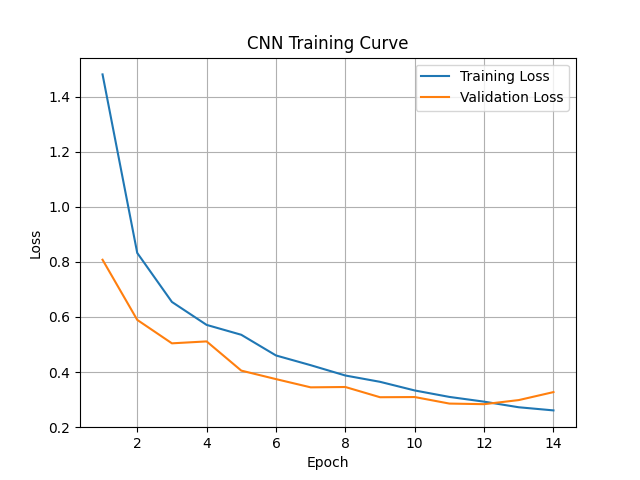
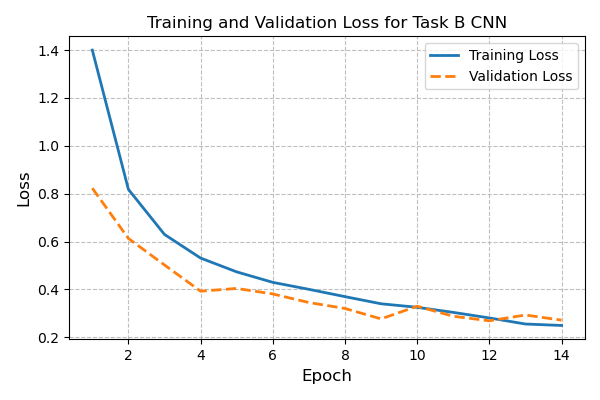
feat: update plot style

diff --git a/B/taskBmodels.py b/B/taskBmodels.py
@@ -236,12 +236,13 @@ class CNNModelTrainer:
 
     def plot_training_curve(self, filepath: str):
         # Plot the training curve
-        plt.figure()
-        plt.plot(range(1, len(self.train_losses)+1, 1), self.train_losses, label="Training Loss")
-        plt.plot(range(1, len(self.val_losses)+1, 1), self.val_losses, label="Validation Loss")
-        plt.xlabel("Epoch")
-        plt.ylabel("Loss")
-        plt.legend()
-        plt.grid()
-        plt.title("CNN Training Curve")
-        # plt.savefig(filepath)
+        plt.figure(figsize=(6,4))
+        plt.plot(range(1, len(self.train_losses)+1, 1), self.train_losses, label="Training Loss", linewidth=2)
+        plt.plot(range(1, len(self.val_losses)+1, 1), self.val_losses, label="Validation Loss", linewidth=2, linestyle='--')
+        plt.xlabel("Epoch", fontsize=12)
+        plt.ylabel("Loss", fontsize=12)
+        plt.legend(fontsize=10)
+        plt.grid(True, linestyle='--', alpha=0.8)
+        plt.title("Training and Validation Loss for Task B CNN", fontsize=12)
+        plt.tight_layout()
+        plt.savefig(filepath)
